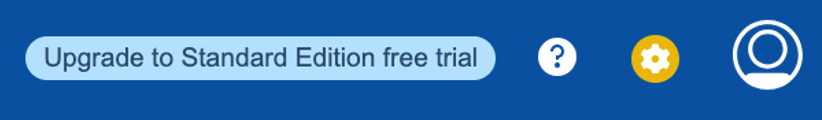
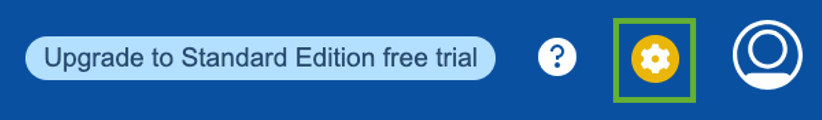
update image and index

Changed region(s): [[0.7299, 0.15, 0.8516, 0.875]]

diff --git a/docs/enable1/index.md b/docs/enable1/index.md
@@ -31,7 +31,7 @@ Once configured and as per that plugin’s synchronization timing, Velocity star
 
 ### Configuring the plugin to integrate DevOps Velocity and EWM
 <br/>
-1. To access the Velocity plugin interface, log into Velocity (uid: admin / pwd: admin), and click on the ![settings icon](media/setting_icon.png) icon (top RHS of the browser window).
+1. To access the Velocity plugin interface, log into Velocity (uid: admin / pwd: admin), and click on the <img src="media/setting_icon.png" alt="settings icon" style="width:25%; height:auto;"> icon (top RHS of the browser window).
 <img src="media/settings_orientation.png" alt="settings icon orientation" style="width:25%; height:auto;">
 2. Select Integrations from the LHS navigation bar.
 <img src="media/integrations.png" alt="integrations orientation" style="width:25%; height:auto;">
@@ -41,7 +41,6 @@ Once configured and as per that plugin’s synchronization timing, Velocity star
 <img src="media/search.png" alt="search" style="width:25%; height:auto;">
 5. Click the  icon and note that there are multiple versions of this plugin available for installation.
 
-6. 
 <br/>
 
 [Return to List of Topics](#topics-covered-in-this-enablement-exercise)
